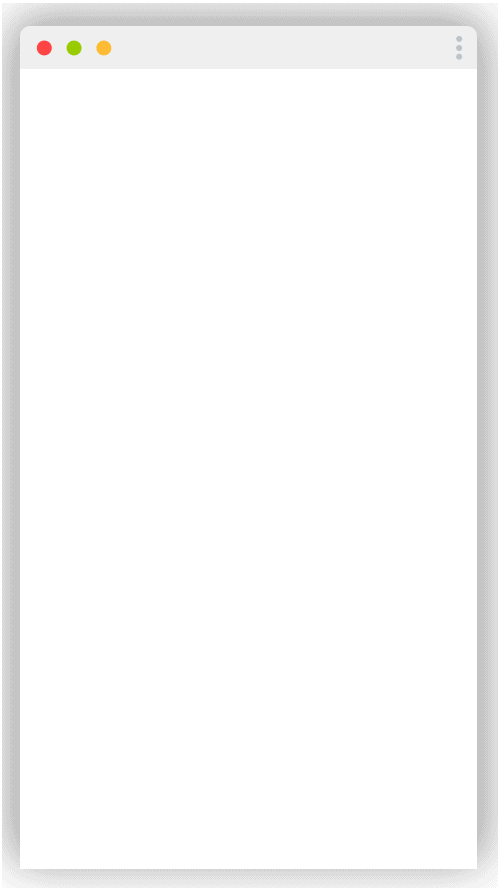
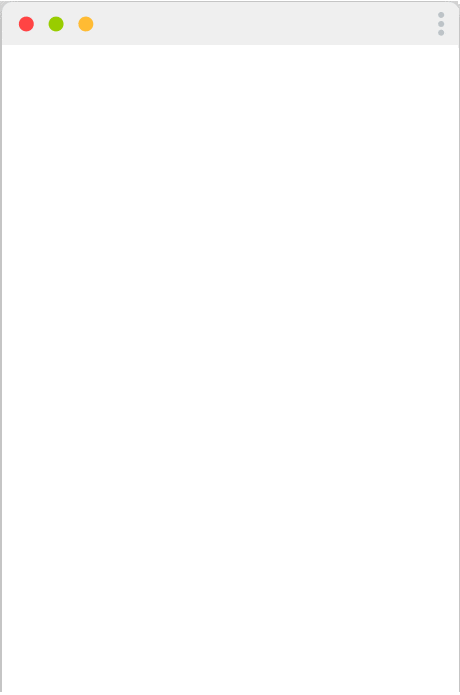
.

Changed region(s): [[0.0, 0.0, 1.0, 0.9971]]

diff --git a/index.html b/index.html
@@ -15,7 +15,7 @@
 
 
     <iframe 
-            style="margin-top: 130px; margin-left: 90px; border-radius: 35px; box-shadow: 0 0px 3rem 0 rgb(68 61 61); "
+            style="margin-top: 75px; margin-left: 80px; border-radius: 35px; box-shadow: 0 0px 3rem 0 rgb(68 61 61); "
             width="287" height="620" frameborder="0" scrolling="no"
 
             src="https://appetize.io/embed/21cteh3y8uc0g4bcnu1vbrv4fw?device=pixel4">
